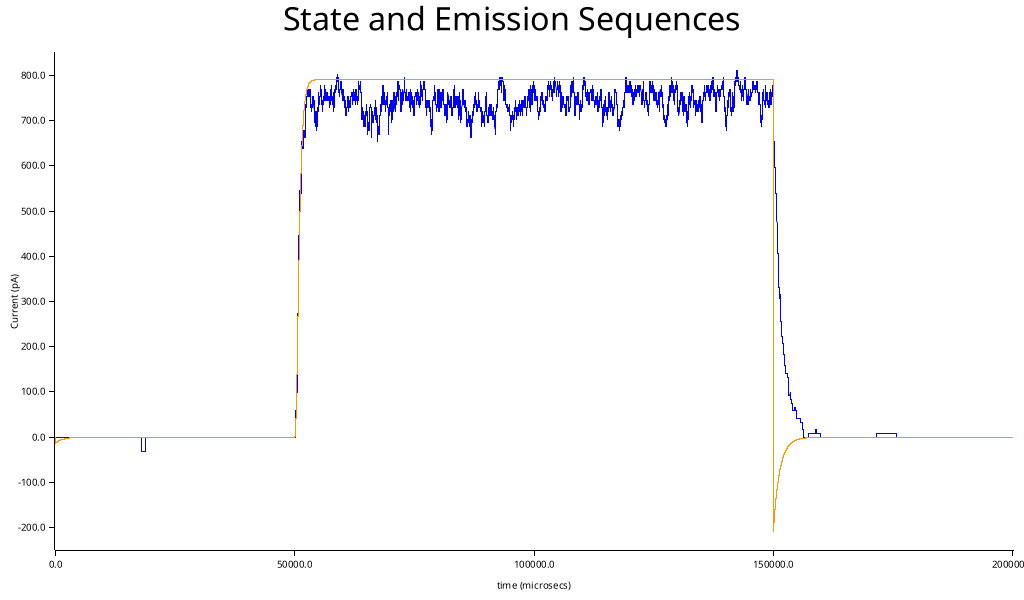
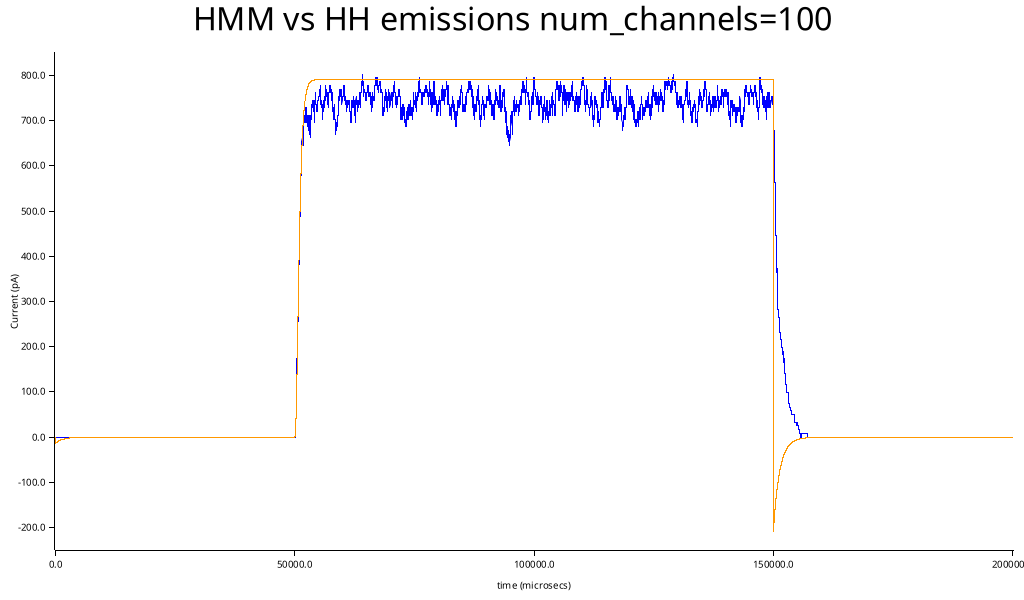
adding support for multiple channel types in project

Changed region(s): [[0.2812, 0.12, 0.75, 0.24], [0.1875, 0.0, 0.8125, 0.06]]

diff --git a/src/main.rs b/src/main.rs
@@ -14,9 +14,6 @@ const PARAM_FILE_NAME: &'static str = "params.json";
 //const OUT_IMG_FILE_NAME: &'static str = "example_cum_emis_trace.png";
 const OUT_IMG_FILE_NAME: &'static str = "example_hhk_emis_trace.png";
 
-const DEFAULT_OPEN_RATE: f32    = 1.22;
-const DEFAULT_CLOSE_RATE: f32   = 0.056;
-
 /*
  * Here's the basic state diagram that we're assuming our Markov Model follows:
  *
@@ -122,19 +119,26 @@ fn generate_stimulus(stim_intervals: &json::JsonValue) -> Vec<(f32, f32)> {
 }
 
 #[derive(Debug)]
-pub struct ChannelRateParams {
+pub struct ChannelParams {
+    pub e_rev: f32,
+    pub init_open_prob: f32,
+    pub init_close_prob: f32,
     pub open_prob: f32,
     pub open_exp_const: f32,
     pub close_prob: f32,
     pub close_exp_const: f32,
 }
 
-impl ChannelRateParams {
-    fn from(init_open_prob: f32,
+impl ChannelParams {
+    fn from(e_rev: f32,
+            init_open_prob: f32,
             open_exp_const: f32,
             init_close_prob: f32,
             close_exp_const: f32) -> Self {
-       ChannelRateParams {
+       ChannelParams {
+        e_rev: e_rev,
+        init_open_prob: init_open_prob,
+        init_close_prob: init_close_prob,
         open_prob: init_open_prob,
         open_exp_const: open_exp_const,
         close_prob: init_close_prob,
@@ -174,13 +178,13 @@ impl EmisDist {
     }
 }
 
-fn generate_trans_matrix(c_r_p: &ChannelRateParams) -> [[f32; 5]; 5] {
+fn generate_trans_matrix(c_p: &ChannelParams) -> [[f32; 5]; 5] {
     [
-        [1.0 - 4.0 * c_r_p.open_prob, 4.0 * c_r_p.open_prob, 0.0, 0.0, 0.0],
-        [c_r_p.close_prob, 1.0 - c_r_p.close_prob - 3.0 * c_r_p.open_prob, 3.0 * c_r_p.open_prob, 0.0, 0.0],
-        [0.0, 2.0 * c_r_p.close_prob, 1.0 - 2.0 * (c_r_p.close_prob + c_r_p.open_prob), 2.0 * c_r_p.open_prob, 0.0],
-        [0.0, 0.0, 3.0 * c_r_p.close_prob, 1.0 - 3.0 * c_r_p.close_prob - c_r_p.open_prob, c_r_p.open_prob],
-        [0.0, 0.0, 0.0, 4.0 * c_r_p.close_prob, 1.0 - 4.0 * c_r_p.close_prob],
+        [1.0 - 4.0 * c_p.open_prob, 4.0 * c_p.open_prob, 0.0, 0.0, 0.0],
+        [c_p.close_prob, 1.0 - c_p.close_prob - 3.0 * c_p.open_prob, 3.0 * c_p.open_prob, 0.0, 0.0],
+        [0.0, 2.0 * c_p.close_prob, 1.0 - 2.0 * (c_p.close_prob + c_p.open_prob), 2.0 * c_p.open_prob, 0.0],
+        [0.0, 0.0, 3.0 * c_p.close_prob, 1.0 - 3.0 * c_p.close_prob - c_p.open_prob, c_p.open_prob],
+        [0.0, 0.0, 0.0, 4.0 * c_p.close_prob, 1.0 - 4.0 * c_p.close_prob],
     ]
 }
 
@@ -194,14 +198,14 @@ pub struct HMMSim {
     pub emis_dists: EmisDist,
     pub cum_emis: Vec<f32>,
     pub trans_matrix: [[f32; 5]; 5],
-    pub c_r_p: ChannelRateParams,
+    pub c_p: ChannelParams,
 }
 
 impl HMMSim {
     fn from(num_channels: u32,
             total_time: u32,
             dt: f32,
-            c_r_p: ChannelRateParams,
+            c_p: ChannelParams,
             stim_intervals: &json::JsonValue,
             emis_params: &json::JsonValue) -> Self {
         HMMSim {
@@ -212,23 +216,24 @@ impl HMMSim {
             stimulus: generate_stimulus(stim_intervals),
             emis_dists: EmisDist::from(emis_params),
             cum_emis: vec![0.0; (total_time as f32 / dt) as usize],
-            trans_matrix: generate_trans_matrix(&c_r_p),
-            c_r_p: c_r_p,
+            trans_matrix: generate_trans_matrix(&c_p),
+            c_p: c_p,
         }
     }
 
     fn update_probs(&mut self, voltage: f32) {
-        // for now: hard-coding in values for delayed K+ rectifier conductance
-        self.c_r_p.open_prob =
-            DEFAULT_OPEN_RATE *
-            (self.c_r_p.open_exp_const * voltage).exp() * self.dt;
-        self.c_r_p.close_prob =
-            DEFAULT_CLOSE_RATE *
-            (self.c_r_p.close_exp_const * voltage).exp() * self.dt;
+        // NOTE: since multiplying by init probs, already taken extra mult factor of dt
+        // into acct
+        self.c_p.open_prob =
+            self.c_p.init_open_prob *
+            (self.c_p.open_exp_const * voltage).exp();
+        self.c_p.close_prob =
+            self.c_p.init_close_prob *
+            (self.c_p.close_exp_const * voltage).exp();
     }
 
     fn update_trans_matrix(&mut self) {
-        self.trans_matrix = generate_trans_matrix(&self.c_r_p);
+        self.trans_matrix = generate_trans_matrix(&self.c_p);
     }
 
     fn run(&mut self) {
@@ -246,7 +251,7 @@ impl HMMSim {
                 channel.make_transition(&self.trans_matrix);
                 channel.sample_emission(&self.emis_dists);
                 // TODO: un-hardcode params
-                cum_emis_ts -= channel.emis * (self.stimulus[stim_id].1 + 77.0);
+                cum_emis_ts -= channel.emis * (self.stimulus[stim_id].1 - self.c_p.e_rev);
             }
             self.cum_emis[ts as usize] = cum_emis_ts;
         }
@@ -264,14 +269,14 @@ pub struct HHKSim {
     pub k_probs: Vec<f32>,
     pub stimulus: Vec<(f32, f32)>,
     pub emis_hist: Vec<f32>,
-    pub c_r_p: ChannelRateParams
+    pub c_p: ChannelParams
 }
 
 impl HHKSim {
     fn from(total_time: u32,
             dt: f32,
             k_g_max: f32,
-            c_r_p: ChannelRateParams,
+            c_p: ChannelParams,
             stim_intervals: &json::JsonValue) -> Self {
         let mut k_probs_init = vec![0.0; (total_time as f32 / dt) as usize];
         k_probs_init[0] = 0.5; // initial prob at ts == 0
@@ -282,7 +287,7 @@ impl HHKSim {
             k_probs: k_probs_init,
             stimulus: generate_stimulus(stim_intervals),
             emis_hist: vec![0.0; (total_time as f32 / dt) as usize],
-            c_r_p: c_r_p,
+            c_p: c_p,
         }
     }
 
@@ -291,12 +296,12 @@ impl HHKSim {
     // to be understood as rates
     fn update_rates(&mut self, voltage: f32) {
         // for now: hard-coding in values for delayed K+ rectifier conductance
-        self.c_r_p.open_prob =
+        self.c_p.open_prob =
             DEFAULT_OPEN_RATE *
-            (self.c_r_p.open_exp_const * voltage).exp();
-        self.c_r_p.close_prob =
+            (self.c_p.open_exp_const * voltage).exp();
+        self.c_p.close_prob =
             DEFAULT_CLOSE_RATE *
-            (self.c_r_p.close_exp_const * voltage).exp();
+            (self.c_p.close_exp_const * voltage).exp();
     }
 
     fn run(&mut self) {
@@ -308,12 +313,12 @@ impl HHKSim {
             }
             let ts: usize = ts as usize;
             self.k_probs[ts] = self.k_probs[ts-1]
-                        + ((1.0 - self.k_probs[ts-1]) * self.c_r_p.open_prob
-                        - self.k_probs[ts-1] * self.c_r_p.close_prob) * self.dt;
+                        + ((1.0 - self.k_probs[ts-1]) * self.c_p.open_prob
+                        - self.k_probs[ts-1] * self.c_p.close_prob) * self.dt;
 
             self.emis_hist[ts] = self.k_g_max
                                * self.k_probs[ts].powf(4.0)
-                               * (self.stimulus[stim_id-1].1 + 77.0);
+                               * (self.stimulus[stim_id-1].1 - self.c_p.e_rev);
         }
     }
 
@@ -322,41 +327,45 @@ impl HHKSim {
 fn main() -> Result<(), Box<dyn std::error::Error>> {
     // initial values for delayed K+ rectifier conductance
     let params_json = json::parse(fs::read_to_string(PARAM_FILE_NAME)?.as_str()).unwrap();
-    let mut model_hmm_sim = HMMSim::from(params_json["num_channels"].as_u32().unwrap(),
-                                         params_json["total_time"].as_u32().unwrap(),
-                                         params_json["dt"].as_f32().unwrap(),
-                                         ChannelRateParams::from(
-                                            params_json["init_open_rate"].as_f32().unwrap()
-                                            * params_json["dt"].as_f32().unwrap(),
-                                            params_json["open_exp_const"].as_f32().unwrap(),
-                                            params_json["init_close_rate"].as_f32().unwrap()
-                                            * params_json["dt"].as_f32().unwrap(),
-                                            params_json["close_exp_const"].as_f32().unwrap(),
+    let k_model_params = &params_json["potassium"];
+    let mut model_hmm_sim = HMMSim::from(k_model_params["num_channels"].as_u32().unwrap(),
+                                         k_model_params["total_time"].as_u32().unwrap(),
+                                         k_model_params["dt"].as_f32().unwrap(),
+                                         ChannelParams::from(
+                                            k_model_params["e_reverse"].as_f32().unwrap(),
+                                            k_model_params["init_open_rate"].as_f32().unwrap()
+                                            * k_model_params["dt"].as_f32().unwrap(),
+                                            k_model_params["open_exp_const"].as_f32().unwrap(),
+                                            k_model_params["init_close_rate"].as_f32().unwrap()
+                                            * k_model_params["dt"].as_f32().unwrap(),
+                                            k_model_params["close_exp_const"].as_f32().unwrap(),
                                         ),
-                                         &params_json["stimulus"],
-                                         &params_json["emissions"]);
+                                         &k_model_params["stimulus"],
+                                         &k_model_params["emissions"]);
 
     model_hmm_sim.run();
 
-    let mut model_hhk_sim = HHKSim::from(params_json["total_time"].as_u32().unwrap(),
-                                         params_json["dt"].as_f32().unwrap(),
-                                         params_json["emissions"][4]["mu"].as_f32().unwrap(),
-                                         ChannelRateParams::from(
-                                            params_json["init_open_rate"].as_f32().unwrap()
-                                            * params_json["dt"].as_f32().unwrap(),
-                                            params_json["open_exp_const"].as_f32().unwrap(),
-                                            params_json["init_close_rate"].as_f32().unwrap()
-                                            * params_json["dt"].as_f32().unwrap(),
-                                            params_json["close_exp_const"].as_f32().unwrap(),
+    let mut model_hhk_sim = HHKSim::from(k_model_params["total_time"].as_u32().unwrap(),
+                                         k_model_params["dt"].as_f32().unwrap(),
+                                         k_model_params["emissions"][4]["mu"].as_f32().unwrap(),
+                                         ChannelParams::from(
+                                            k_model_params["e_reverse"].as_f32().unwrap(),
+                                            k_model_params["init_open_rate"].as_f32().unwrap()
+                                            * k_model_params["dt"].as_f32().unwrap(),
+                                            k_model_params["open_exp_const"].as_f32().unwrap(),
+                                            k_model_params["init_close_rate"].as_f32().unwrap()
+                                            * k_model_params["dt"].as_f32().unwrap(),
+                                            k_model_params["close_exp_const"].as_f32().unwrap(),
                                         ),
-                                         &params_json["stimulus"]);
+                                         &k_model_params["stimulus"]);
 
     model_hhk_sim.run();
 
     // it's plotting time
     let root = BitMapBackend::new(OUT_IMG_FILE_NAME, (1024, 600)).into_drawing_area();
     root.fill(&WHITE)?;
-    let root = root.titled("State and Emission Sequences", ("sans-serif", 40))?;
+    let root = root.titled(format!("HMM vs HH emissions num_channels={}", model_hmm_sim.num_channels).as_str(),
+                           ("sans-serif", 40))?;
 
     let mut chart = ChartBuilder::on(&root)
         .margin(10)
@@ -381,7 +390,6 @@ fn main() -> Result<(), Box<dyn std::error::Error>> {
         &BLUE,
     ))?;
     let max = model_hhk_sim.emis_hist.iter().fold(std::f32::NEG_INFINITY, |a, &b| a.max(b));
-    println!("{max}");
     chart.draw_series(LineSeries::new(
         model_hhk_sim.emis_hist.iter().enumerate().map(|(ts, e)| {
             (ts as f32, max * *e)
@@ -389,6 +397,7 @@ fn main() -> Result<(), Box<dyn std::error::Error>> {
         &full_palette::ORANGE,
     ))?;
 
+    // uncomment for individual channel emission time series
     //for channel in model_sim.channels {
     //    chart.draw_series(LineSeries::new(
     //        channel.state_hist.iter().enumerate().map(|(ts, s)| {
